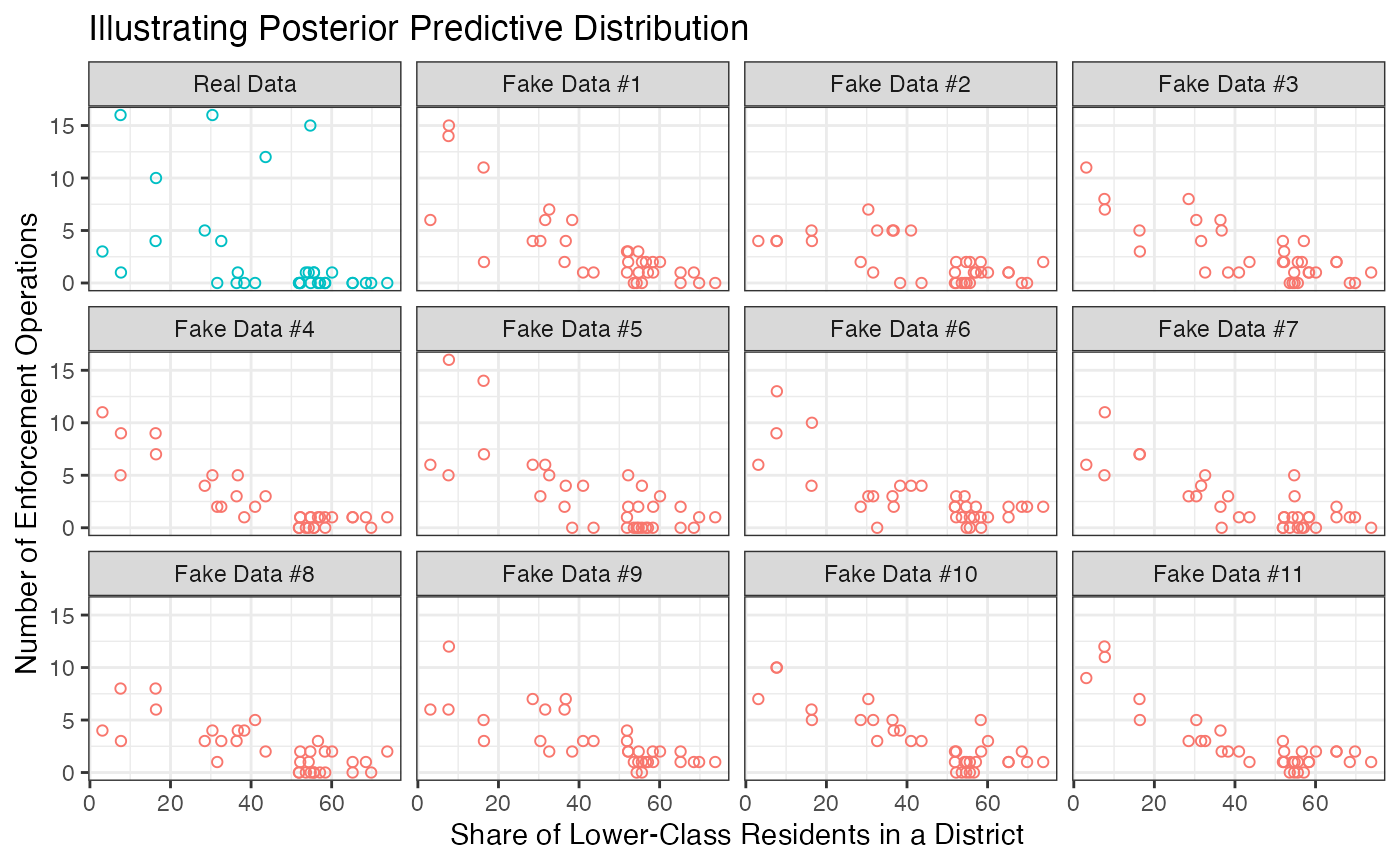
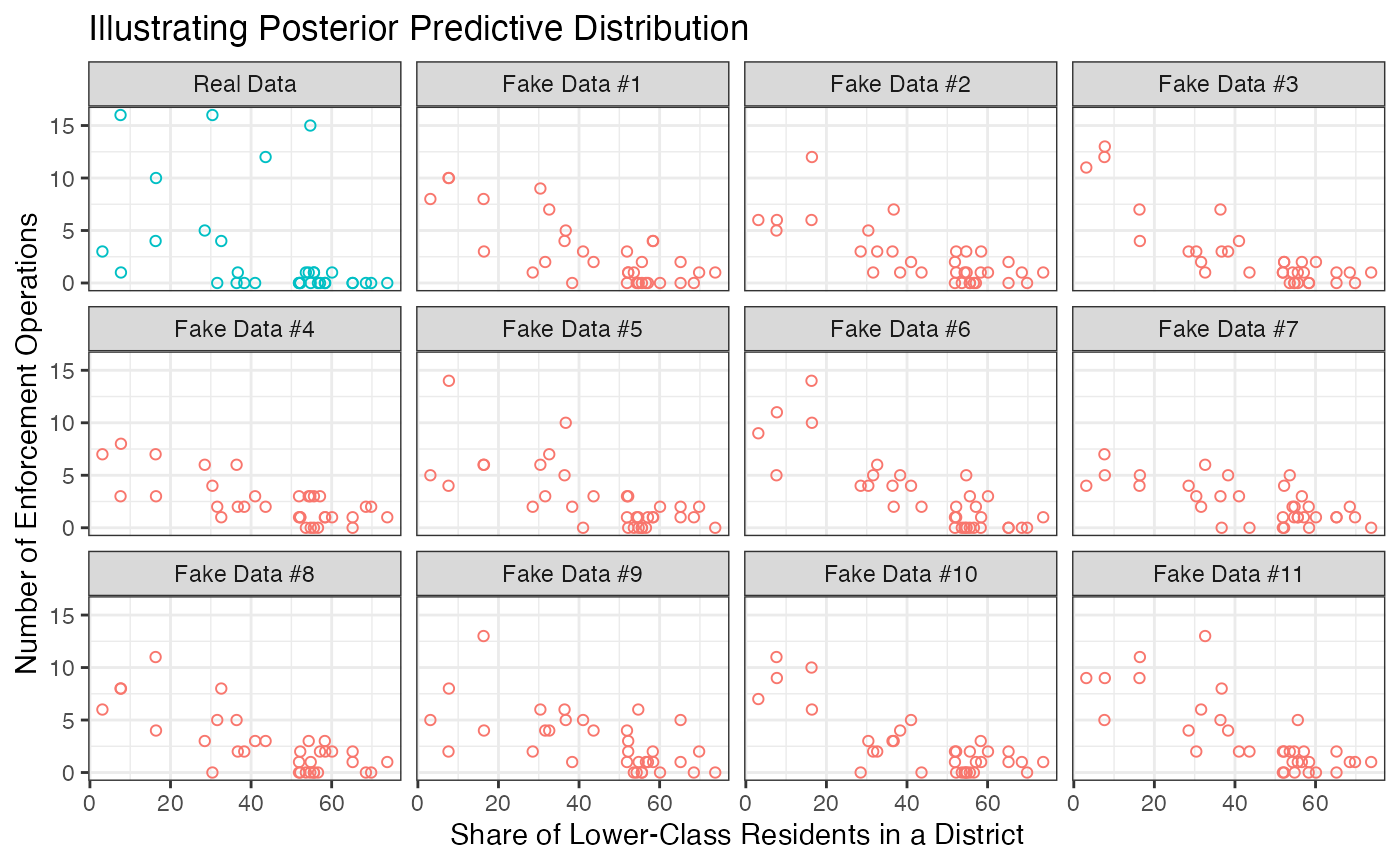
Update

diff --git a/docs/articles/holland2015.html b/docs/articles/holland2015.html
@@ -116,7 +116,7 @@ cases have a bit of overdispersion, so it’s a good example.</p>
 <span><span class="co"># install (or update if needed) crdata package</span></span>
 <span><span class="fu">devtools</span><span class="fu">::</span><span class="fu"><a href="https://remotes.r-lib.org/reference/install_github.html" class="external-link">install_github</a></span><span class="op">(</span><span class="st">"carlislerainey/crdata"</span><span class="op">)</span></span>
 <span><span class="co">#&gt; <span style="color: #00BBBB;">──</span> <span style="color: #00BBBB;">R CMD build</span> <span style="color: #00BBBB;">─────────────────────────────────────────────────────────────────</span></span></span>
-<span><span class="co">#&gt; * checking for file ‘/private/var/folders/h9/y3l6d7hs1m5fsvhdzj_jkdfr0000gp/T/RtmpZH1uzD/remotes4aef47dc6adc/carlislerainey-crdata-9fa6351/DESCRIPTION’ ... OK</span></span>
+<span><span class="co">#&gt; * checking for file ‘/private/var/folders/h9/y3l6d7hs1m5fsvhdzj_jkdfr0000gp/T/RtmpU2I52b/remotes4c77a67730f/carlislerainey-crdata-e1a5161/DESCRIPTION’ ... OK</span></span>
 <span><span class="co">#&gt; * preparing ‘crdata’:</span></span>
 <span><span class="co">#&gt; * checking DESCRIPTION meta-information ... OK</span></span>
 <span><span class="co">#&gt; * checking for LF line-endings in source and make files and shell scripts</span></span>
@@ -179,7 +179,7 @@ for</p>
 <span><span class="co">#&gt; $ .chain      <span style="color: #949494; font-style: italic;">&lt;int&gt;</span> NA, NA, NA, NA, NA, NA, NA, NA, NA, NA, NA, NA, NA, NA, NA…</span></span>
 <span><span class="co">#&gt; $ .iteration  <span style="color: #949494; font-style: italic;">&lt;int&gt;</span> NA, NA, NA, NA, NA, NA, NA, NA, NA, NA, NA, NA, NA, NA, NA…</span></span>
 <span><span class="co">#&gt; $ .draw       <span style="color: #949494; font-style: italic;">&lt;int&gt;</span> 1, 2, 3, 4, 5, 6, 7, 8, 9, 10, 11, 1, 2, 3, 4, 5, 6, 7, 8,…</span></span>
-<span><span class="co">#&gt; $ .prediction <span style="color: #949494; font-style: italic;">&lt;int&gt;</span> 2, 0, 3, 1, 2, 1, 1, 1, 2, 2, 1, 0, 0, 0, 0, 1, 2, 1, 0, 1…</span></span>
+<span><span class="co">#&gt; $ .prediction <span style="color: #949494; font-style: italic;">&lt;int&gt;</span> 1, 3, 2, 1, 3, 1, 0, 0, 3, 0, 0, 1, 0, 0, 2, 2, 0, 1, 0, 2…</span></span>
 <span></span>
 <span><span class="co"># wrangle fake data for plotting</span></span>
 <span><span class="va">gg_fake</span> <span class="op">&lt;-</span> <span class="va">fake</span> <span class="op"><a href="https://magrittr.tidyverse.org/reference/pipe.html" class="external-link">%&gt;%</a></span></span>
@@ -211,7 +211,7 @@ for</p>
 <span><span class="co">#&gt; $ .iteration <span style="color: #949494; font-style: italic;">&lt;int&gt;</span> NA, NA, NA, NA, NA, NA, NA, NA, NA, NA, NA, NA, NA, NA, NA,…</span></span>
 <span><span class="co">#&gt; $ .draw      <span style="color: #949494; font-style: italic;">&lt;dbl&gt;</span> 0, 1, 2, 3, 4, 5, 6, 7, 8, 9, 10, 11, 0, 1, 2, 3, 4, 5, 6, …</span></span>
 <span><span class="co">#&gt; $ type       <span style="color: #949494; font-style: italic;">&lt;chr&gt;</span> "operations", ".prediction", ".prediction", ".prediction", …</span></span>
-<span><span class="co">#&gt; $ operations <span style="color: #949494; font-style: italic;">&lt;dbl&gt;</span> 0, 2, 0, 3, 1, 2, 1, 1, 1, 2, 2, 1, 0, 0, 0, 0, 0, 1, 2, 1,…</span></span>
+<span><span class="co">#&gt; $ operations <span style="color: #949494; font-style: italic;">&lt;dbl&gt;</span> 0, 1, 3, 2, 1, 3, 1, 0, 0, 3, 0, 0, 0, 1, 0, 0, 2, 2, 0, 1,…</span></span>
 <span><span class="co">#&gt; $ obs_type   <span style="color: #949494; font-style: italic;">&lt;fct&gt;</span> Real Data, Fake Data #1, Fake Data #2, Fake Data #3, Fake D…</span></span>
 <span></span>
 <span><span class="co"># plot fake data</span></span>

diff --git a/docs/index.html b/docs/index.html
@@ -131,11 +131,18 @@
 <tr class="odd">
 <td><code>cg2006</code></td>
 <td>
-<a href="doi:10.7910/DVN/HGXPHP/SVLIF1">Clark and Golder (2006)</a>; <a href="doi:10.1111/ajps.12102">Rainey (2014)</a>; <a href="https://doi.org/10.1017/psrm.2018.34" class="external-link">Baissa and Rainey (2018)</a>
+<a href="https://doi.org/10.1177/0010414005278420" class="external-link">Clark and Golder (2006)</a>; <a href="https://doi.org/10.1111/ajps.12102" class="external-link">Rainey (2014)</a>; <a href="https://doi.org/10.1017/psrm.2018.34" class="external-link">Baissa and Rainey (2018)</a>
 </td>
 <td>Linear regression, equivalence testing, interaction, non-normal residuals, outliers</td>
 </tr>
 <tr class="even">
+<td><code>holland2015</code></td>
+<td>
+<a href="doi:10.7910/DVN/HGXPHP/SVLIF1">Holland (215)</a>; <a href="https://doi.org/10.1017/psrm.2023.8" class="external-link">Rainey (2023)</a>
+</td>
+<td>Poisson regression, preditive distribution</td>
+</tr>
+<tr class="odd">
 <td><code>weisiger2014</code></td>
 <td>
 <a href="https://journals.sagepub.com/doi/10.1177/0738894213508691" class="external-link">Weisiger (2014)</a>; <a href="https://doi.org/10.1017/psrm.2021.9" class="external-link">Rainey and McCaskey (2021)</a>

diff --git a/README.md b/README.md
@@ -40,7 +40,8 @@ I have no plans at the moment to upload to CRAN.
 |----------------|----------------------------------------------------------------------------------------------------------------------------------------------------------------------------------------------------------------------------------------------|-----------------------------------------------------------------------------------------|
 | `bm2015`       | [Rauchhaus(2009)](https://doi.org/10.1177/0022002708330387); [Bell and Miller (2015)](https://doi.org/10.1177/0022002713499718); [Rainey (2016)](https://doi.org/10.1093/pan/mpw014); [Rainey (2023)](https://doi.org/10.31235/osf.io/bmvnu) | Logistic regression with separation in large samples.                                   |
 | `br2014`       | [Barrilleaux and Rainey (2014)](https://doi.org/10.1177/1532440014561644); [Rainey (2016)](https://doi.org/10.1093/pan/mpw014); [Rainey (2023)](https://doi.org/10.31235/osf.io/bmvnu)                                                       | Logistic regression with separation in small samples.                                   |
-| `cg2006`       | [Clark and Golder (2006)](doi:10.7910/DVN/HGXPHP/SVLIF1); [Rainey (2014)](doi:10.1111/ajps.12102); [Baissa and Rainey (2018)](https://doi.org/10.1017/psrm.2018.34)                                                                          | Linear regression, equivalence testing, interaction, non-normal residuals, outliers     |
+| `cg2006`       | [Clark and Golder (2006)](https://doi.org/10.1177/0010414005278420); [Rainey (2014)](https://doi.org/10.1111/ajps.12102); [Baissa and Rainey (2018)](https://doi.org/10.1017/psrm.2018.34)                                                   | Linear regression, equivalence testing, interaction, non-normal residuals, outliers     |
+| `holland2015`  | [Holland (215)](doi:10.7910/DVN/HGXPHP/SVLIF1); [Rainey (2023)](https://doi.org/10.1017/psrm.2023.8)                                                                                                                                         | Poisson regression, preditive distribution                                              |
 | `weisiger2014` | [Weisiger (2014)](https://journals.sagepub.com/doi/10.1177/0738894213508691); [Rainey and McCaskey (2021)](https://doi.org/10.1017/psrm.2021.9)                                                                                              | Logistic regression in small samples; Firth’s logit; R packages {brglm2} and {logistf}. |
 
 ## Using the Data
